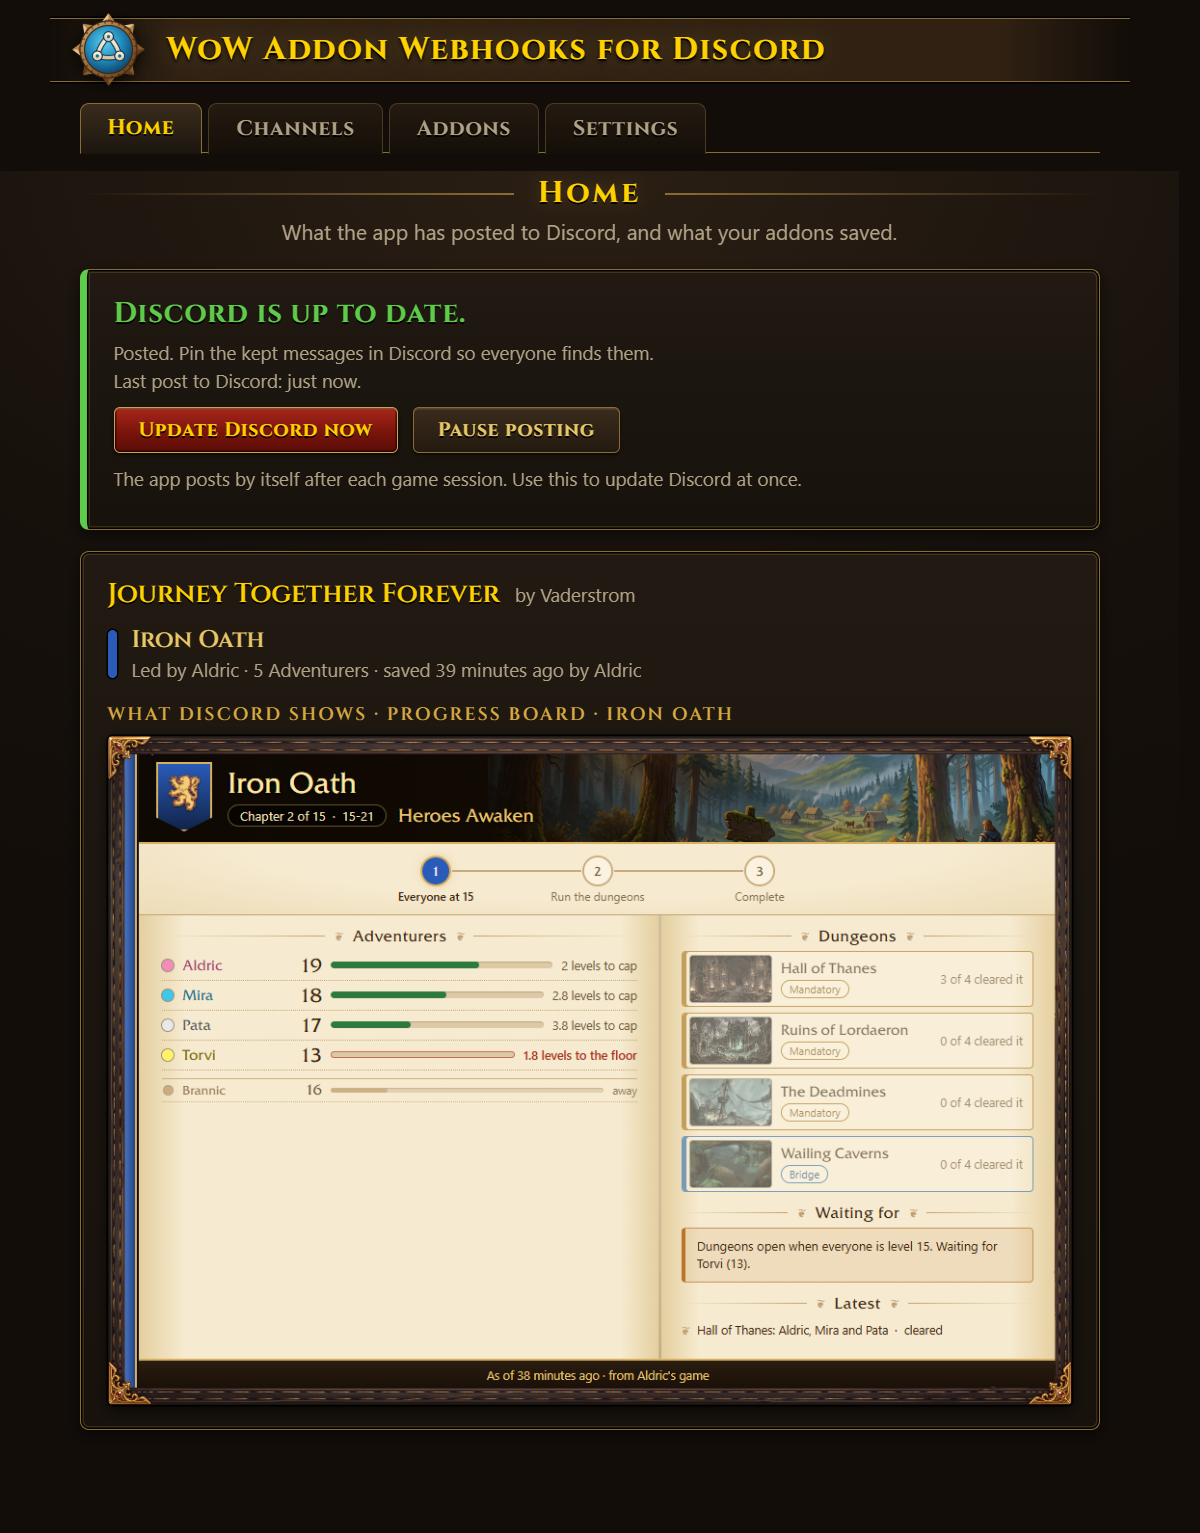
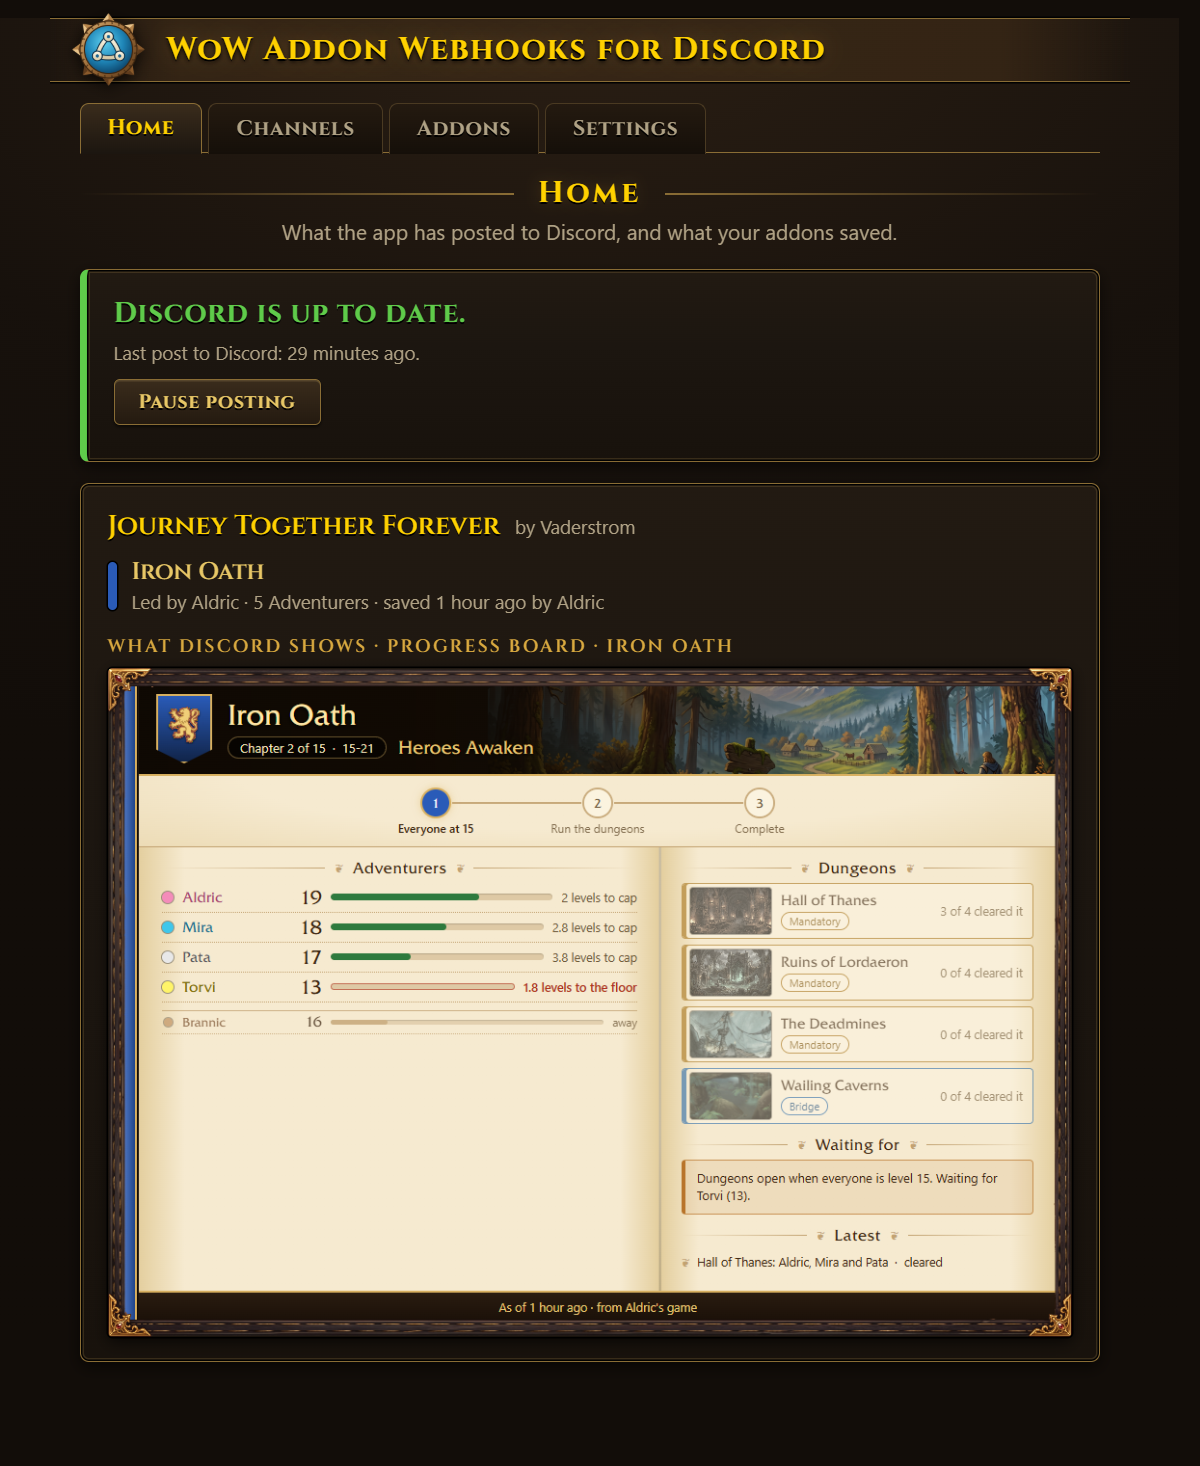
WoW Addon Webhooks for Discord 0.1.3

Changed region(s): [[0.0617, 0.1228, 0.925, 0.9516], [0.0617, 0.0, 0.7092, 0.0921]]

diff --git a/src/main/main.js b/src/main/main.js
@@ -51,7 +51,11 @@ if (CHECK) return check.run(CHECK);
 
 if (DEV.AWD_USER_DATA) app.setPath('userData', DEV.AWD_USER_DATA);
 if (!app.requestSingleInstanceLock()) app.quit();
-app.setAppUserModelId('WoW Addon Webhooks for Discord');
+// Windows takes the taskbar icon and the notices' name from the Start menu shortcut with the same id: the installer's
+// carries build.appId (package.json; the packed app's package.json has no build section, so it is written here too, and
+// a test checks the two match). A development run keeps an id of its own, so it never takes the installed app's.
+const APP_ID = 'com.addonwebhooks.discord';
+app.setAppUserModelId(app.isPackaged ? APP_ID : 'WoW Addon Webhooks for Discord');
 registerScheme();
 
 let settings, poster, tray, win, lastStatus = null, debounce = null, gameRunning = false, noticed = null, gameArt = null;
@@ -279,7 +283,6 @@ function trayMenu() {
   tray.setContextMenu(Menu.buildFromTemplate([
     ...(update && update.state !== 'downloading' ? [{ label: fill(TEXTS['update.tray'], { version: update.version }), click: downloadUpdate }, { type: 'separator' }] : []),
     { label: TEXTS.trayOpen, click: openWindow },
-    { label: TEXTS.postNow, click: () => sync('now') },
     { label: paused ? TEXTS.resume : TEXTS.pause, click: () => { poster.setPaused(!paused); trayMenu(); sendStatus(); } },
     { type: 'separator' },
     { label: TEXTS.trayQuit, click: () => { app.isQuitting = true; app.quit(); } },

diff --git a/src/renderer/index.html b/src/renderer/index.html
@@ -67,11 +67,7 @@
     <div class="card status" id="statusCard">
       <p id="statusMain" class="big"></p>
       <div id="statusLines" class="hint"></div>
-      <div class="row">
-        <button id="postNow" class="primary" data-t="postNow"></button>
-        <button id="pause"></button>
-      </div>
-      <p class="hint" data-t="postNowHelp"></p>
+      <div class="row"><button id="pause"></button></div>
     </div>
     <div id="homePlugins"></div>
   </section>
@@ -101,6 +97,8 @@
     <div class="card">
       <h2 data-t="appTitle"></h2>
       <div id="options" class="ticks"></div>
+      <div class="row"><button id="postNow" data-t="postNow"></button></div>
+      <p class="hint" data-t="postNowHelp"></p>
     </div>
     <div class="card">
       <h2 data-t="logTitle"></h2>

diff --git a/test/app-id.test.js b/test/app-id.test.js
@@ -1,0 +1,15 @@
+'use strict';
+// The installed app's id must be the installer's (build.appId), or Windows shows another program's icon on the
+// taskbar and names notices after it.
+const test = require('node:test');
+const assert = require('node:assert');
+const fs = require('fs');
+const path = require('path');
+
+test('the app id in main.js is the installer\'s build.appId', () => {
+  const pkg = JSON.parse(fs.readFileSync(path.join(__dirname, '..', 'package.json'), 'utf8'));
+  const main = fs.readFileSync(path.join(__dirname, '..', 'src', 'main', 'main.js'), 'utf8');
+  const m = main.match(/const APP_ID = '([^']+)'/);
+  assert.ok(m, 'main.js names APP_ID');
+  assert.strictEqual(m[1], pkg.build.appId);
+});

diff --git a/src/renderer/renderer.js b/src/renderer/renderer.js
@@ -294,7 +294,7 @@
     const pins = s.pinAsks || [];
     if (pins.length) {
       const line = el('div', 'pin-ask');
-      line.append(el('span', null, fill(T.pinAgain, { what: pins.map((x) => fill(T.pinWhat, x)).join('; ') })),
+      line.append(el('span', null, fill(pins.length > 1 ? T.pinAgainMany : T.pinAgain, { what: pins.map((x) => fill(T.pinWhat, x)).join('; ') })),
         button(T.pinDone, async () => { await api.clearPinAsks(); refresh(); }, 'small'));
       lines.push(line);
     }

diff --git a/src/main/poster.js b/src/main/poster.js
@@ -224,7 +224,7 @@ function createPoster(deps) {
 
   // ---------- A run ----------
 
-  // reason: 'file' (saved data changed), 'timer' (a step or the weekly summary is due), 'now' (Update Discord now:
+  // reason: 'file' (saved data changed), 'timer' (a step or the weekly summary is due), 'now' (Send to Discord now:
   // every kept message edited), 'setup' (the end of setup: kept messages posted, no backlog).
   async function sync(reason) {
     const now = deps.now();

diff --git a/docs/SPEC.md b/docs/SPEC.md
@@ -200,7 +200,7 @@ never posts by itself. A script that takes longer than 5 seconds or throws is st
 - **What it returned last time** is kept per game and account in the app's folder (`plugin-data\<id>\`, at most
   4 MB), so a restart does not lose it. Fields the app does not know are not used, but come back in `last`.
 - A kept message is edited when its group's `saved` time is newer, as for any addon: a newer version of a plugin
-  shows at its addon's next save, or with **Update Discord now**.
+  shows at its addon's next save, or with **Send to Discord now** (Settings).
 
 ## 7. Pictures from templates
 A plugin may bring an HTML page that draws a picture from the data its addon saved (Journey Together's board, from the
@@ -259,7 +259,9 @@ your game, and how it runs."; Channels and Addons: their hints below).
   - one status sentence: "Discord is up to date.", "Posting is paused.", or the problem, naming the addon and
     channel;
   - the last post, and "The game is running. …" while it runs;
-  - **Update Discord now**, and **Pause posting** / **Resume posting**;
+  - **Pause posting** / **Resume posting**. No button to post: the app posts by itself after each game session
+    (decided 30 Oct 2026; Send to Discord now is under Settings, for setting up or testing);
+  - several kept messages posted anew: "New in Discord: {what}. Pin them so everyone finds them.";
   - each addon in use, with its groups and what Discord shows.
 - **Channels** (the Flows page, §5.1):
   - on top, **Add a channel** and one hint: "Drag from a dot to a channel to send it there. Click a line for its
@@ -283,10 +285,12 @@ your game, and how it runs."; Channels and Addons: their hints below).
   - where the app looks;
   - "Show a Windows notice when something goes wrong";
   - "Start with Windows (it waits in the tray)";
+  - **Send to Discord now** (its old name Update Discord now read like an app update), with "Only for setting up or
+    testing: the app posts by itself after each game session. This sends anything new at once, without waiting.";
   - **Recent posts**: the last 50 posts and failures (when, addon, channel, group, what, and the line's rules);
   - at the bottom, "Not made by or affiliated with Blizzard Entertainment or Discord. …" (§1).
 
-**The tray**: **Open**, **Update Discord now**, **Pause posting** / **Resume posting**, **Quit** (and **Download and
+**The tray**: **Open**, **Pause posting** / **Resume posting**, **Quit** (and **Download and
 update to {version}** when one is out, §10). Closing the window keeps the app in the tray.
 
 **A new version** (§10) shows at the top of every page: "Version {version} is out. You have {current}." with
@@ -336,6 +340,8 @@ More info → Run anyway). Addons that bring a plugin say on their CurseForge pa
 
   **Download and update** downloads it with the progress in the window, then installs and starts again; a failed
   download says so with **Try again**. Not while developing.
+- The installed app tells Windows the installer's app id (`build.appId`, `com.addonwebhooks.discord`), so the
+  taskbar and notices take the crest and the name from its Start menu shortcut; a development run uses another id.
 - The installer puts the app in `%LOCALAPPDATA%\Programs\wow-addon-webhooks-for-discord`, with a Start menu and
   a desktop shortcut. Uninstalling (Windows Settings → Apps) leaves the settings in
   `%APPDATA%\WoW Addon Webhooks for Discord`.

diff --git a/docs/MANUAL.md b/docs/MANUAL.md
@@ -83,14 +83,14 @@ use with its groups and what Discord shows.
 
 ![Home](manual/04-home.png)
 
-- **Update Discord now** posts at once what is new, without waiting for the next save.
+- There is nothing to press: the app posts by itself after each game session.
 - **Pause posting** stops all posts until you press **Resume posting**. Nothing is posted twice when you resume, and
   old news is not posted.
 - If something goes wrong (a webhook was deleted, Discord cannot be reached), Home says what, naming the addon and
   the channel. A board you deleted in Discord is posted again, and Home names it so you can pin it.
 
 **Closing the window keeps the app running in the tray** (by the clock), where it waits for your next game session.
-Right-click the tray icon for **Open**, **Update Discord now**, **Pause posting** and **Quit**.
+Right-click the tray icon for **Open**, **Pause posting** and **Quit**.
 
 ## Channels: what goes where
 **Channels** is the same board as setup's step 3, for later changes. Drag from a kind's dot to a channel to draw a line;
@@ -137,6 +137,8 @@ and nothing else; it cannot see your webhook links or reach the internet.
 - **Show a Windows notice when something goes wrong.**
 - **Start with Windows**: the app starts in the tray when you log in to Windows, so posts never wait for you to open
   it.
+- **Send to Discord now**: only for setting up or testing. It sends anything new at once instead of waiting for
+  your next game session. (It never updates the app: that is **Download and update**, under Updates.)
 - **Recent posts**: the last 50 posts and failures, with the line's rules.
 
 ## Updates

diff --git a/CHANGELOG.md b/CHANGELOG.md
@@ -2,6 +2,15 @@
 
 ## Unreleased
 
+## 0.1.3 (30 Oct 2026)
+- Electron 44.9.1 (was 44.7.2), for a security fix: it stops trusting the compromised eMudhra intermediate
+  certificates (GHSA-jr5w-w6x2-84p9).
+- The taskbar showed Electron's icon instead of the crest (and notices could be named Electron): the app gave
+  Windows another id than its installer's shortcut. It now uses the installer's, `com.addonwebhooks.discord`.
+- **Update Discord now** is now **Send to Discord now** (it read like an update of the app), and it moved from Home
+  and the tray to Settings: the app posts by itself after each game session, so it is only for setting up or
+  testing. Several boards to pin say "Pin them", not "Pin it".
+
 ## 0.1.2 (30 Oct 2026)
 - A new icon, the same in the window, the tray, Windows notices and the installer: the Journey Together Forever
   crest with three webhook nodes in it, drawn for each size Windows uses (`npx electron tools/make-icon.js`).
